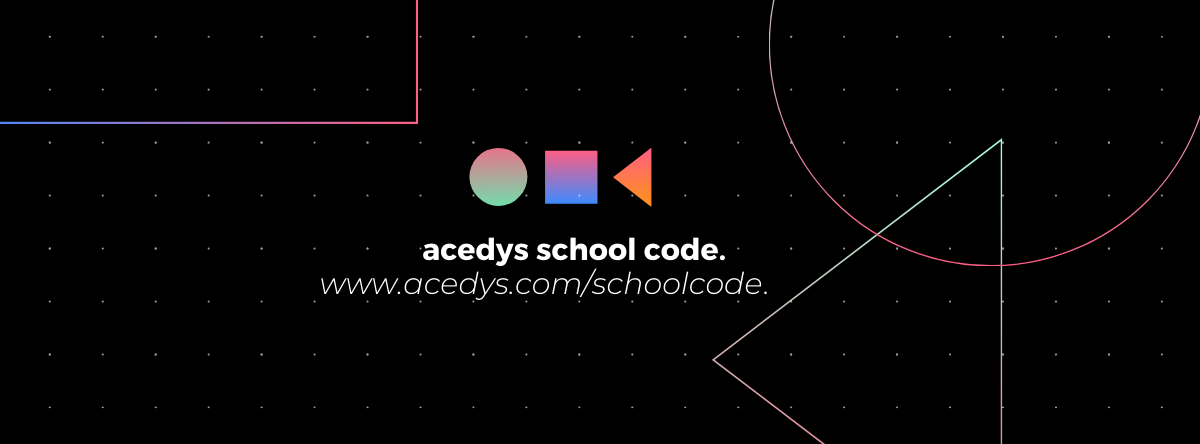
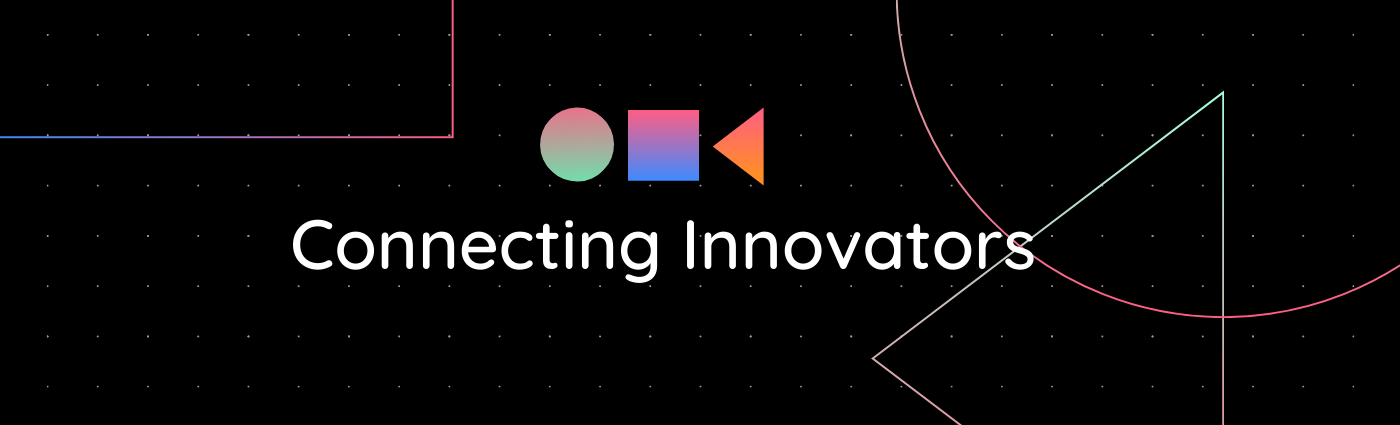
Add files via upload

diff --git a/index.html b/index.html
@@ -1,4 +1,5 @@
 
+
 <!DOCTYPE html>
 <html lang="en">
 
@@ -107,7 +108,7 @@
   <div class="container px-1 py-20 mx-auto flex flex-col">
     <div class="lg:w-6/6 mx-auto">
       <div class="rounded-lg h-70 overflow-hidden">
-        <img alt="content" class="object-cover object-center h-full w-full" src="connect.png">
+        <img alt="content" class="object-cover object-center h-full w-full" src="banner.png">
       </div>
       <div class="flex flex-col sm:flex-row mt-10">
         <div class="sm:w-1/4 text-center sm:pr-8 sm:py-8">
